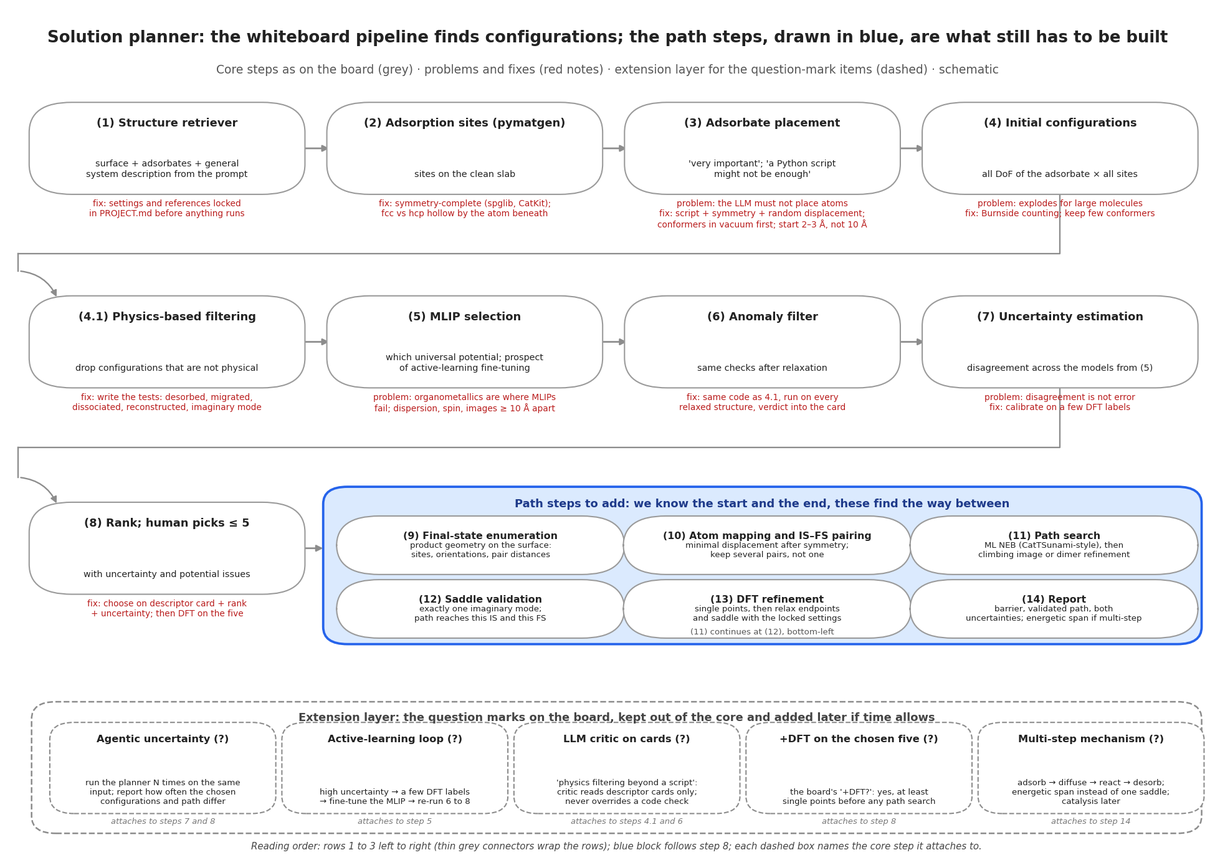
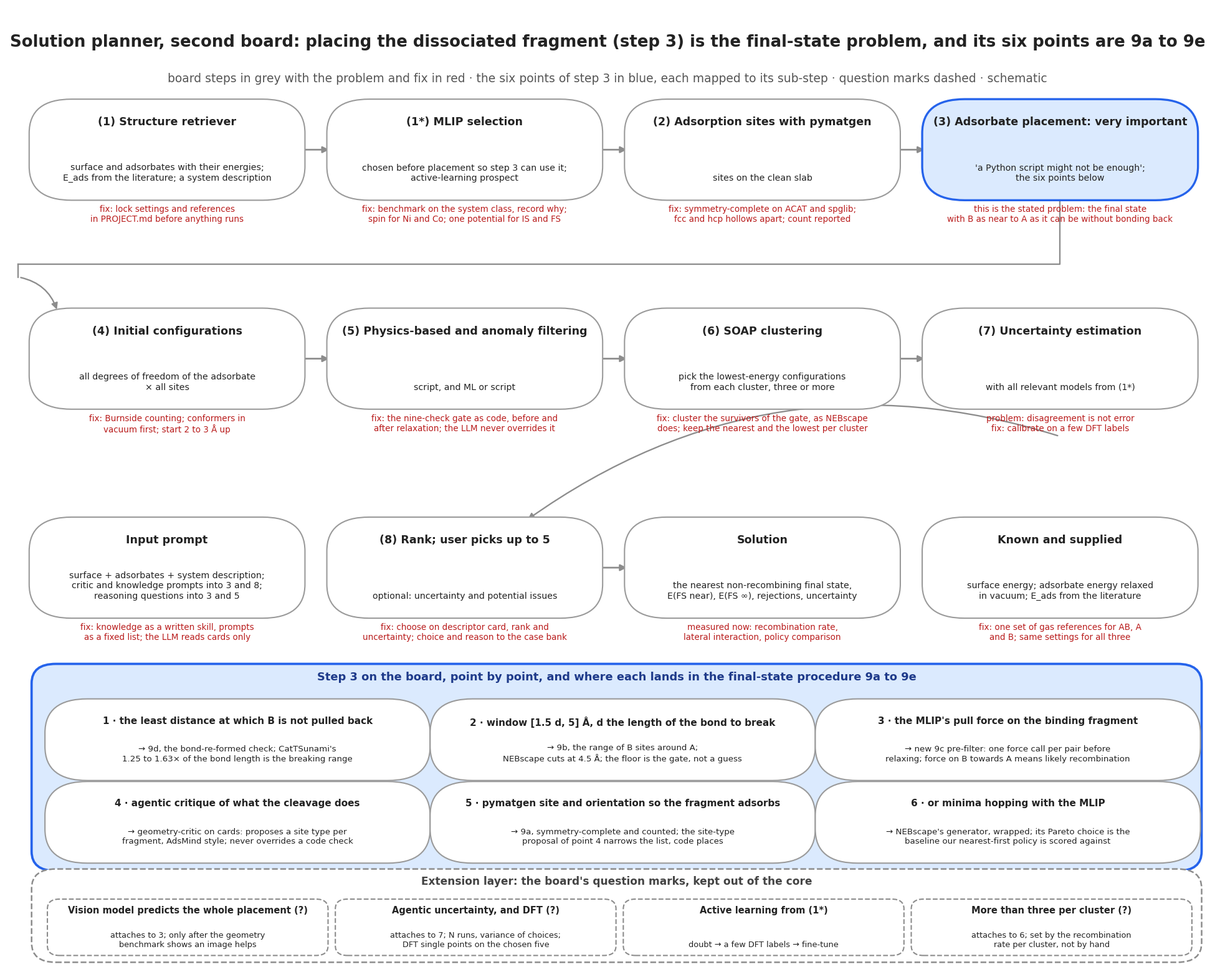
Second whiteboard: step 3's six points mapped onto 9a to 9e
Figure 19 redrawn for the second board of 21 October 2026: MLIP selection before placement, the six-point placement procedure for the dissociated fragment, SOAP clustering as step 6, minima hopping as the alternative generator, input prompt and known quantities, the question marks as extensions.
Design document section 14, agent context 21, build context 3.8: the distance window [1.5 d, 5] Å, the pull-force pre-filter before relaxing, the critic's site-type proposal, SOAP clustering of survivors, and the open thresholds.

diff --git a/docs/figures/src/19-solution-planner-pipeline.py b/docs/figures/src/19-solution-planner-pipeline.py
@@ -1,95 +1,90 @@
-"""Figure 19: the whiteboard solution planner, the path steps it lacks, problems, and the extension layer."""
+"""Figure 19: the solution planner from the second whiteboard (21 October 2026). The board's step 3,
+placing the dissociated fragment, is the final-state problem; its six points map onto 9a to 9e."""
 import sys, os
 sys.path.insert(0, os.path.dirname(__file__))
 from _style import *
 from matplotlib.patches import FancyBboxPatch
 
 RED = "#b91c1c"
-fig = plt.figure(figsize=(13, 9.2))
+fig = plt.figure(figsize=(13, 10.4))
 ax = fig.add_axes([0, 0, 1, 1]); ax.set_xlim(0, 1); ax.set_ylim(0, 1); ax.axis("off")
-title(fig, "Solution planner: the whiteboard pipeline finds configurations; the path steps, drawn in blue, are what still has to be built",
-      "Core steps as on the board (grey) · problems and fixes (red notes) · extension layer for the question-mark items (dashed) · schematic")
+title(fig, "Solution planner, second board: placing the dissociated fragment (step 3) is the final-state problem, and its six points are 9a to 9e",
+      "board steps in grey with the problem and fix in red · the six points of step 3 in blue, each mapped to its sub-step · question marks dashed · schematic")
 
 cols = [0.03, 0.275, 0.52, 0.765]; W = 0.215
-def step(ci, y, t, b, note=None, h=0.095, **kw):
-    box(ax, cols[ci], y, W, h, t, b, fs=8.6, bfs=6.9, **kw)
+def step(ci, y, t, b, note=None, h=0.092, hi=False):
+    box(ax, cols[ci], y, W, h, t, b, fs=8.4, bfs=6.8, hi=hi)
     if note:
-        ax.text(cols[ci] + W / 2, y - 0.012, note, ha="center", va="top", fontsize=6.6, color=RED, linespacing=1.2)
+        ax.text(cols[ci] + W / 2, y - 0.011, note, ha="center", va="top", fontsize=6.5, color=RED, linespacing=1.2)
 
-# ---- row 1
-y1 = 0.78
-step(0, y1, "(1) Structure retriever", "surface + adsorbates + general\nsystem description from the prompt",
-     "fix: settings and references locked\nin PROJECT.md before anything runs")
-step(1, y1, "(2) Adsorption sites (pymatgen)", "sites on the clean slab",
-     "fix: symmetry-complete (spglib, CatKit);\nfcc vs hcp hollow by the atom beneath")
-step(2, y1, "(3) Adsorbate placement", "'very important'; 'a Python script\nmight not be enough'",
-     "problem: the LLM must not place atoms\nfix: script + symmetry + random displacement;\nconformers in vacuum first; start 2–3 Å, not 10 Å")
-step(3, y1, "(4) Initial configurations", "all DoF of the adsorbate × all sites",
-     "problem: explodes for large molecules\nfix: Burnside counting; keep few conformers")
-# ---- row 2
-y2 = 0.555
-step(0, y2, "(4.1) Physics-based filtering", "drop configurations that are not physical",
-     "fix: write the tests: desorbed, migrated,\ndissociated, reconstructed, imaginary mode")
-step(1, y2, "(5) MLIP selection", "which universal potential; prospect\nof active-learning fine-tuning",
-     "problem: organometallics are where MLIPs\nfail; dispersion, spin, images ≥ 10 Å apart")
-step(2, y2, "(6) Anomaly filter", "same checks after relaxation",
-     "fix: same code as 4.1, run on every\nrelaxed structure, verdict into the card")
-step(3, y2, "(7) Uncertainty estimation", "disagreement across the models from (5)",
+y1 = 0.80
+step(0, y1, "(1) Structure retriever", "surface and adsorbates with their energies;\nE_ads from the literature; a system description",
+     "fix: lock settings and references\nin PROJECT.md before anything runs")
+step(1, y1, "(1*) MLIP selection", "chosen before placement so step 3 can use it;\nactive-learning prospect",
+     "fix: benchmark on the system class, record why;\nspin for Ni and Co; one potential for IS and FS")
+step(2, y1, "(2) Adsorption sites with pymatgen", "sites on the clean slab",
+     "fix: symmetry-complete on ACAT and spglib;\nfcc and hcp hollows apart; count reported")
+step(3, y1, "(3) Adsorbate placement: very important", "'a Python script might not be enough';\nthe six points below", hi=True,
+     note="this is the stated problem: the final state\nwith B as near to A as it can be without bonding back")
+y2 = 0.585
+step(0, y2, "(4) Initial configurations", "all degrees of freedom of the adsorbate\n× all sites",
+     "fix: Burnside counting; conformers in\nvacuum first; start 2 to 3 Å up")
+step(1, y2, "(5) Physics-based and anomaly filtering", "script, and ML or script",
+     "fix: the nine-check gate as code, before and\nafter relaxation; the LLM never overrides it")
+step(2, y2, "(6) SOAP clustering", "pick the lowest-energy configurations\nfrom each cluster, three or more",
+     "fix: cluster the survivors of the gate, as NEBscape\ndoes; keep the nearest and the lowest per cluster")
+step(3, y2, "(7) Uncertainty estimation", "with all relevant models from (1*)",
      "problem: disagreement is not error\nfix: calibrate on a few DFT labels")
-# ---- row 3: human choice + path block
-y3 = 0.315
-step(0, y3, "(8) Rank; human picks ≤ 5", "with uncertainty and potential issues",
-     "fix: choose on descriptor card + rank\n+ uncertainty; then DFT on the five")
-grp = FancyBboxPatch((0.27, 0.255), 0.715, 0.175, boxstyle="round,pad=0.004,rounding_size=0.02",
-                     fc=HI_FACE, ec=HI_EDGE, lw=1.8, zorder=1); ax.add_patch(grp)
-ax.text(0.6275, 0.42, "Path steps to add: we know the start and the end, these find the way between", ha="center", va="top",
-        fontsize=8.6, fontweight="bold", color="#1e3a8a")
-sub = [("(9) Final-state enumeration", "product geometry on the surface:\nsites, orientations, pair distances"),
-       ("(10) Atom mapping and IS–FS pairing", "minimal displacement after symmetry;\nkeep several pairs, not one"),
-       ("(11) Path search", "ML NEB (CatTSunami-style), then\nclimbing image or dimer refinement"),
-       ("(12) Saddle validation", "exactly one imaginary mode;\npath reaches this IS and this FS"),
-       ("(13) DFT refinement", "single points, then relax endpoints\nand saddle with the locked settings"),
-       ("(14) Report", "barrier, validated path, both\nuncertainties; energetic span if multi-step")]
-sw, sh = 0.225, 0.056
-for i, (t, b) in enumerate(sub):
-    r, c = divmod(i, 3)
-    x = 0.283 + c * 0.236; y = 0.338 - r * 0.074
-    box(ax, x, y, sw, sh, t, b, fs=7.6, bfs=6.4)
-    if c < 2: arrow(ax, (x + sw + 0.002, y + sh / 2), (x + 0.236 - 0.002, y + sh / 2), lw=1.1, ms=8)
-ax.text(0.6275, 0.262, "(11) continues at (12), bottom-left", ha="center", fontsize=6.4, color="#555555")
-
-# ---- arrows between core boxes
+y3 = 0.37
+step(0, y3, "Input prompt", "surface + adsorbates + system description;\ncritic and knowledge prompts into 3 and 8;\nreasoning questions into 3 and 5",
+     "fix: knowledge as a written skill, prompts\nas a fixed list; the LLM reads cards only")
+step(1, y3, "(8) Rank; user picks up to 5", "optional: uncertainty and potential issues",
+     "fix: choose on descriptor card, rank and\nuncertainty; choice and reason to the case bank")
+step(2, y3, "Solution", "the nearest non-recombining final state,\nE(FS near), E(FS ∞), rejections, uncertainty",
+     "measured now: recombination rate,\nlateral interaction, policy comparison")
+step(3, y3, "Known and supplied", "surface energy; adsorbate energy relaxed\nin vacuum; E_ads from the literature",
+     "fix: one set of gas references for AB, A\nand B; same settings for all three")
 for y in (y1, y2):
     for ci in range(3):
-        arrow(ax, (cols[ci] + W + 0.002, y + 0.0475), (cols[ci + 1] - 0.002, y + 0.0475), lw=1.3)
+        arrow(ax, (cols[ci] + W + 0.002, y + 0.046), (cols[ci + 1] - 0.002, y + 0.046), lw=1.3)
+arrow(ax, (cols[1] + W + 0.002, y3 + 0.046), (cols[2] - 0.002, y3 + 0.046), lw=1.3)
 def snake(y_from, y_to):
-    xr = cols[3] + W / 2; xl = cols[0] + W / 2; ym = y_from - 0.075
+    xr = cols[3] + W / 2; xl = cols[0] + W / 2; ym = y_from - 0.072
     ax.plot([xr, xr, 0.015, 0.015], [y_from, ym, ym, ym], color=GREY, lw=1.1, zorder=0)
-    ax.plot([0.015, 0.015], [ym, y_to + 0.1 + 0.03], color=GREY, lw=1.1, zorder=0)
-    arrow(ax, (0.015, y_to + 0.13), (xl - 0.09, y_to + 0.095 + 0.002), lw=1.1, con="arc3,rad=-0.3")
-snake(y1, y2); snake(y2, y3)
-arrow(ax, (cols[0] + W + 0.002, y3 + 0.0475), (0.27 - 0.002, y3 + 0.0475), lw=1.3)
+    ax.plot([0.015, 0.015], [ym, y_to + 0.13], color=GREY, lw=1.1, zorder=0)
+    arrow(ax, (0.015, y_to + 0.13), (xl - 0.09, y_to + 0.094), lw=1.1, con="arc3,rad=-0.3")
+snake(y1, y2)
+arrow(ax, (cols[3] + W / 2, y2 - 0.034), (cols[1] + W / 2 + 0.05, y3 + 0.094), lw=1.1, con="arc3,rad=0.25")
+
+# ---- the six points of step 3, mapped to 9a to 9e
+grp = FancyBboxPatch((0.03, 0.108), 0.955, 0.205, boxstyle="round,pad=0.004,rounding_size=0.02",
+                     fc=HI_FACE, ec=HI_EDGE, lw=1.8, zorder=1); ax.add_patch(grp)
+ax.text(0.5075, 0.309, "Step 3 on the board, point by point, and where each lands in the final-state procedure 9a to 9e",
+        ha="center", va="top", fontsize=8.6, fontweight="bold", color="#1e3a8a")
+pts = [("1 · the least distance at which B is not pulled back", "→ 9d, the bond-re-formed check; CatTSunami's\n1.25 to 1.63× of the bond length is the breaking range"),
+       ("2 · window [1.5 d, 5] Å, d the length of the bond to break", "→ 9b, the range of B sites around A;\nNEBscape cuts at 4.5 Å; the floor is the gate, not a guess"),
+       ("3 · the MLIP's pull force on the binding fragment", "→ new 9c pre-filter: one force call per pair before\nrelaxing; force on B towards A means likely recombination"),
+       ("4 · agentic critique of what the cleavage does", "→ geometry-critic on cards: proposes a site type per\nfragment, AdsMind style; never overrides a code check"),
+       ("5 · pymatgen site and orientation so the fragment adsorbs", "→ 9a, symmetry-complete and counted; the site-type\nproposal of point 4 narrows the list, code places"),
+       ("6 · or minima hopping with the MLIP", "→ NEBscape's generator, wrapped; its Pareto choice is the\nbaseline our nearest-first policy is scored against")]
+pw, ph = 0.305, 0.072
+for i, (t, b) in enumerate(pts):
+    r, c = divmod(i, 3)
+    x = 0.043 + c * 0.317; y = 0.203 - r * 0.085
+    box(ax, x, y, pw, ph, t, b, fs=7.3, bfs=6.4)
 
 # ---- extension layer
-ext = FancyBboxPatch((0.03, 0.035), 0.955, 0.145, boxstyle="round,pad=0.004,rounding_size=0.02",
+ext = FancyBboxPatch((0.03, 0.014), 0.955, 0.088, boxstyle="round,pad=0.004,rounding_size=0.02",
                      fc="white", ec=GREY, lw=1.2, ls="--", zorder=1); ax.add_patch(ext)
-ax.text(0.5075, 0.172, "Extension layer: the question marks on the board, kept out of the core and added later if time allows",
-        ha="center", va="top", fontsize=8.6, fontweight="bold", color="#444444")
-exts = [("Agentic uncertainty (?)", "run the planner N times on the same\ninput; report how often the chosen\nconfigurations and path differ", 7),
-        ("Active-learning loop (?)", "high uncertainty → a few DFT labels\n→ fine-tune the MLIP → re-run 6 to 8", 5),
-        ("LLM critic on cards (?)", "'physics filtering beyond a script':\ncritic reads descriptor cards only;\nnever overrides a code check", 4.1),
-        ("+DFT on the chosen five (?)", "the board's '+DFT?': yes, at least\nsingle points before any path search", 8),
-        ("Multi-step mechanism (?)", "adsorb → diffuse → react → desorb;\nenergetic span instead of one saddle;\ncatalysis later", 14)]
-ew = 0.178
-for i, (t, b, _) in enumerate(exts):
-    x = 0.045 + i * 0.191
-    p = FancyBboxPatch((x, 0.058), ew, 0.098, boxstyle="round,pad=0.004,rounding_size=0.02",
-                       fc="white", ec=GREY, lw=1.0, ls="--", zorder=2); ax.add_patch(p)
-    ax.text(x + ew / 2, 0.146, t, ha="center", va="top", fontsize=7.8, fontweight="bold", zorder=3)
-    ax.text(x + ew / 2, 0.063, b, ha="center", va="bottom", fontsize=6.4, zorder=3, linespacing=1.2)
-tags = ["attaches to steps 7 and 8", "attaches to step 5", "attaches to steps 4.1 and 6", "attaches to step 8", "attaches to step 14"]
-for i, t in enumerate(tags):
-    ax.text(0.045 + i * 0.191 + ew / 2, 0.04, t, ha="center", va="bottom", fontsize=6.3, color="#777777", style="italic")
-ax.text(0.5075, 0.012, "Reading order: rows 1 to 3 left to right (thin grey connectors wrap the rows); blue block follows step 8; each dashed box names the core step it attaches to.",
-        ha="center", fontsize=7.2, style="italic", color="#444444")
+ax.text(0.5075, 0.099, "Extension layer: the board's question marks, kept out of the core", ha="center", va="top", fontsize=8.2, fontweight="bold", color="#444444")
+exts = [("Vision model predicts the whole placement (?)", "attaches to 3; only after the geometry\nbenchmark shows an image helps"),
+        ("Agentic uncertainty, and DFT (?)", "attaches to 7; N runs, variance of choices;\nDFT single points on the chosen five"),
+        ("Active learning from (1*)", "doubt → a few DFT labels → fine-tune"),
+        ("More than three per cluster (?)", "attaches to 6; set by the recombination\nrate per cluster, not by hand")]
+ew = 0.225
+for i, (t, b) in enumerate(exts):
+    x = 0.042 + i * 0.237
+    p = FancyBboxPatch((x, 0.020), ew, 0.052, boxstyle="round,pad=0.003,rounding_size=0.01", fc="white", ec=GREY, lw=1.0, ls="--", zorder=2); ax.add_patch(p)
+    ax.text(x + ew / 2, 0.068, t, ha="center", va="top", fontsize=7.0, fontweight="bold", zorder=3)
+    ax.text(x + ew / 2, 0.024, b, ha="center", va="bottom", fontsize=6.2, zorder=3, linespacing=1.2)
 finish(fig, os.path.join(os.path.dirname(__file__), "..", "19-solution-planner-pipeline.png"))

diff --git a/docs/adsorption-agent-workflow.md b/docs/adsorption-agent-workflow.md
@@ -441,28 +441,30 @@ Reading the figure: the dashed loop sends rate-controlling steps from the microk
 
 ## The solution planner from the whiteboard
 
-The whiteboard plan of 21 October 2026 finds configurations well and stops before the path. It is a double-ended search: the start, surface and adsorbates relaxed in vacuum with their energies, and the end, the adsorbed product, are known; the path is not, and the transition energy sets how fast the product forms.
+The second board of 21 October 2026 makes step 3, placing the dissociated fragment, the heart of the plan, and its six points are the final-state procedure 9a to 9e of section 16. The plan follows NEBscape's shape: potential chosen first, sites by symmetry, a distance window for the fragment, SOAP clustering of the survivors, minima hopping as the alternative generator. The start is known, surface and adsorbates with their energies, and E_ads for the adsorbate is in the literature.
 
-![The whiteboard pipeline finds configurations; the path steps are what still has to be built](figures/19-solution-planner-pipeline.png)
+![Step 3 of the board is the final-state problem; its six points land in 9a to 9e](figures/19-solution-planner-pipeline.png)
 
-*Figure: solution planner · core, gaps, extension layer, schematic*
+*Figure: solution planner, second board · 10 steps, 6 points, extension layer, schematic*
 
-Reading the figure: the eight whiteboard steps, grey, carry red notes naming each problem and fix. Step 8, the human choosing up to five configurations, hands over to the six highlighted path steps the board lacks: final-state enumeration, atom mapping and pairing, path search, saddle validation, DFT refinement, report. The dashed bottom band is the extension layer, each box naming its step; the core runs without it.
+Reading the figure: the board's steps in grey carry a red problem and fix each; step 3 is highlighted because it is the stated problem. The blue block takes the six points written under step 3 and names the sub-step each becomes. The dashed band holds the board's question marks.
 
 | Whiteboard step | Workflow step, section 3 | Status |
 |---|---|---|
 | (1) Structure retriever | Choose system and settings | Keep; lock settings and references in PROJECT.md first |
-| (2) Adsorption sites with pymatgen | Site and orientation enumeration | Fix: symmetry-complete with spglib and CatKit; fcc and hcp hollows apart |
-| (3) Adsorbate placement | Site and orientation enumeration | Fix: script only; symmetry, random displacement; the LLM never places atoms |
+| (1*) MLIP selection, before placement | ML pre-screening | Benchmark on the system class, record why; one potential for IS and FS; spin for Ni and Co |
+| (2) Adsorption sites with pymatgen | Site and orientation enumeration | Fix: symmetry-complete with spglib and ACAT; fcc and hcp hollows apart |
+| (3) Adsorbate placement, six points | The final-state procedure 9a to 9e | Point 1, least distance before B is pulled back: the bond-re-formed check, 9d. Point 2, window [1.5 d, 5] Å with d the length of the bond to break: the range of B sites around A, 9b; NEBscape cuts at 4.5 Å. Point 3, the MLIP's pull force on the binding fragment: a one-force-call pre-filter per pair before relaxing, new in 9c. Point 4, agentic critique of the cleavage: the geometry critic proposes a site type per fragment and never overrides a check. Point 5, pymatgen site and orientation so the fragment adsorbs: 9a, symmetry-complete and counted. Point 6, minima hopping with the MLIP: NEBscape's generator, wrapped as the baseline policy |
 | (4) Initial configurations | Site and orientation enumeration | Fix: conformers in vacuum first, Burnside counting; start 2 to 3 Å up |
 | (4.1) Physics-based filtering | Validity checks | Fix: write the tests of section 3 |
 | (5) MLIP selection | ML pre-screening; flag ML doubt | Problem: organometallics; dispersion, spin, images 10 Å apart |
-| (6) Anomaly filter | Validity checks | Same code as (4.1), on every relaxed structure |
+| (6) SOAP clustering, lowest per cluster | Choose, 9e | Cluster the gate's survivors by SOAP as NEBscape does; keep the nearest and the lowest per cluster; three or more per cluster is open |
 | (7) Uncertainty estimation | Flag ML doubt | Fix: calibrate disagreement against a few DFT labels |
-| (8) Rank; human picks up to five | Review flagged cases | Fix: choose on card, rank and uncertainty; then DFT on the five |
-| (9) to (14) path steps | Extension to reaction pathways, section 12 | New: the part to build |
+| (8) Rank; human picks up to five | Review flagged cases | Fix: choose on card, rank and uncertainty; choice and reason to the case bank |
+| Input prompt: critic and knowledge prompts, reasoning questions | Skill and interview | Knowledge as a written skill, prompts as a fixed list; the LLM reads cards only |
+| (9) to (14) path steps | Extension to reaction pathways, section 12 | Later phase |
 
-**Extension layer**, the board's question marks: agentic uncertainty, the variance of the planner's choices over several runs on one input; active learning from high uncertainty to DFT labels to a fine-tuned MLIP; an LLM critic of descriptor cards that never overrides a code check; DFT on the five chosen configurations before any path search; multi-step mechanisms by energetic span, then catalysis. Open questions: section 18.
+**Extension layer**, the board's question marks: a vision model that predicts the whole placement, only after the geometry benchmark shows an image helps; more than three configurations per cluster, set by the recombination rate per cluster; agentic uncertainty, the variance of the planner's choices over several runs on one input; active learning from high uncertainty to DFT labels to a fine-tuned MLIP; an LLM critic of descriptor cards that never overrides a code check; DFT on the five chosen configurations before any path search; multi-step mechanisms by energetic span, then catalysis. Open questions: section 18.
 
 ## The augmented pipeline: what to borrow, what is missing, what is ours
 

diff --git a/docs/agent-build-context.md b/docs/agent-build-context.md
@@ -215,10 +215,10 @@ NEBscape's endpoint generator (MIT) with fairchem's helpers, and four changes: c
 | Sub-step | Does                                                    | CatTSunami does                                  | We do                                                                 | Output                                   |
 |----------|---------------------------------------------------------|--------------------------------------------------|-----------------------------------------------------------------------|------------------------------------------|
 | 9a       | Place A, the fragment that keeps the binding atom, near the IS site | 5 lowest-energy placements within 2 Å of the old binding site | All symmetry-distinct placements, counted, or A fixed at its IS site: D5 | Placements of A\*, counted        |
-| 9b       | Enumerate B sites around each A                         | 5 placements in a 1–3 Å shell, 25 pairs          | All symmetry-distinct pairs ordered by site-graph distance, in-plane tiebreak, counted | Ordered pairs and their count |
-| 9c       | Relax every pair                                        | MLIP relaxation                                  | Same potential and settings as the IS; random displacement first      | Relaxed pairs                            |
+| 9b       | Enumerate B sites around each A                         | 5 placements in a 1–3 Å shell, 25 pairs          | All symmetry-distinct pairs ordered by site-graph distance, in-plane tiebreak, counted; the board's window [1.5 d, 5] Å, d the length of the bond to break, bounds the list; NEBscape cuts at 4.5 Å | Ordered pairs and their count |
+| 9c       | Pre-filter, then relax every pair                       | MLIP relaxation                                  | The board's pull-force test: one force call per pair; a force on B towards A above a threshold marks likely recombination and the pair goes to the back of the queue, not out; then relax with the IS potential and settings, random displacement first | Flagged pairs; relaxed pairs |
 | 9d       | Gate every pair                                         | Discard frames where the products react or another anomaly occurs | Checks 1 to 11 of 3.4; every rejection logged with its reason | Survivors; rejections with reasons |
-| 9e       | Choose                                                  | One survivor at random                           | Nearest survivor first, then energy; keep several                     | Final states; E(FS near); E(FS ∞); recombination rate |
+| 9e       | Choose                                                  | One survivor at random                           | Cluster survivors by SOAP as NEBscape does; keep the nearest and the lowest per cluster; nearest first overall, then energy | Final states; E(FS near); E(FS ∞); recombination rate |
 
 | Field   | Content                                                                                                    |
 |---------|------------------------------------------------------------------------------------------------------------|
@@ -227,7 +227,8 @@ NEBscape's endpoint generator (MIT) with fairchem's helpers, and four changes: c
 | Recombination rate | How often the nearest pair bonds back: pairs failing check 10 over pairs relaxed; per distance or nearest shell only is open: team decision |
 | Wraps   | fairchem AutoFrameDissociation; tools 3.2, 3.3, 3.4 and 3.6                                                 |
 | Logs    | Counts of placements and pairs; every rejection with its reason; E(FS near), E(FS ∞) and their difference; recombination rate |
-| Open    | The three D5 questions; the A–B threshold; how many survivors to keep                                      |
+| Open    | The three D5 questions; the A–B threshold; how many survivors to keep; the pull-force threshold; whether d is the vacuum or the adsorbed bond length; 5 Å or NEBscape's 4.5 Å as the upper bound; configurations per SOAP cluster |
+| Critic  | The geometry-critic may propose a site type per fragment from the card, AdsMind style, to order the list; it never removes a pair |
 | Extensions | Coverage scan over cell sizes at 9b; lowest energy within one site hop at 9e                            |
 
 ### 3.9 Atom mapping, pairing and the intended-reaction check: P2, step 10

diff --git a/docs/agent-context.md b/docs/agent-context.md
@@ -291,20 +291,21 @@ Rules:
 
 ## 21. Solution planner (whiteboard, 21 October 2026)
 
-Double-ended search: start, surface and adsorbates relaxed in vacuum with energies; end, the known product; unknown path, whose transition energy sets the rate.
+Second board, 21 October 2026: step 3, placing the dissociated fragment, is the final-state problem; the plan follows NEBscape's shape. Known: surface and adsorbates with energies; E_ads from the literature.
 
 Core steps and fixes:
 1. Structure retriever: surface, adsorbates, description from the prompt. Fix: lock settings and references in PROJECT.md first.
-2. Sites with pymatgen. Fix: symmetry-complete, spglib and CatKit; fcc and hcp hollows apart.
-3. Placement. Fix: script only; symmetry plus random displacement; conformers in vacuum first; start 2–3 Å up, not 10 Å.
+1*. MLIP selection before placement, active-learning prospect. Fix: benchmark on the system class, record why; one potential for IS and FS; spin for Ni and Co.
+2. Sites with pymatgen. Fix: symmetry-complete, spglib and ACAT; fcc and hcp hollows apart.
+3. Placement of the dissociated fragment, six points on the board: (i) least distance before B is pulled back → the bond-re-formed check, 9d; (ii) window [1.5 d, 5] Å, d the length of the bond to break → range of B sites around A, 9b, NEBscape cuts at 4.5 Å; (iii) the MLIP's pull force on the binding fragment → one force call per pair before relaxing, new pre-filter in 9c: force on B towards A means likely recombination; (iv) agentic critique of the cleavage → geometry-critic proposes a site type per fragment, never overrides a check; (v) pymatgen site and orientation so the fragment adsorbs → 9a, symmetry-complete and counted; (vi) minima hopping with the MLIP → NEBscape's generator, the baseline policy. For AB* itself: script only; symmetry plus random displacement; conformers in vacuum first; start 2–3 Å up.
 4. Initial configurations, all DoF × all sites. Fix: Burnside counting; few conformers.
 4.1. Physics filter. Fix: the checks of section 6.
 5. MLIP selection. Problem: organometallics, where universal MLIPs fail; dispersion; spin; periodic images ≥ 10 Å apart.
-6. Anomaly filter: the code of 4.1 on every relaxed structure; verdict into the card.
+6. SOAP clustering of the gate's survivors, as NEBscape; keep the nearest and the lowest per cluster; how many per cluster is open. The anomaly filter is the code of 4.1 on every relaxed structure, verdict into the card.
 7. Uncertainty across the MLIPs of 5. Fix: calibrate on a few DFT labels first.
-8. Rank; human picks up to five on card, rank and uncertainty; then DFT on the five.
+8. Rank; human picks up to five on card, rank and uncertainty; choice and reason to the case bank. Input prompt: critic and knowledge prompts into 3 and 8, reasoning questions into 3 and 5: knowledge as a written skill, prompts as a fixed list, the LLM reads cards only.
 
-Later path steps: 9 final-state enumeration: product geometry, sites, orientations, pair distances; 10 atom mapping and IS–FS pairing, minimal displacement after symmetry, several pairs; 11 ML NEB, then climbing image or dimer; 12 saddle validation, one imaginary mode, path reaches this IS and FS; 13 DFT single points, then relax with locked settings; 14 report: barrier, path, MLIP and agentic uncertainties, energetic span if multi-step. The board's question marks are the extension column of section 22. Open questions: section 17.
+Later path steps: 9 final-state enumeration: product geometry, sites, orientations, pair distances; 10 atom mapping and IS–FS pairing, minimal displacement after symmetry, several pairs; 11 ML NEB, then climbing image or dimer; 12 saddle validation, one imaginary mode, path reaches this IS and FS; 13 DFT single points, then relax with locked settings; 14 report: barrier, path, MLIP and agentic uncertainties, energetic span if multi-step. The board's question marks are the extension column of section 22, plus a vision model for placement, only after the geometry benchmark shows an image helps, and more than three per cluster, set by the recombination rate. Open questions: section 17.
 
 ## 22. Augmented pipeline: borrow, gaps, ours (figure 20 as a table)
 
